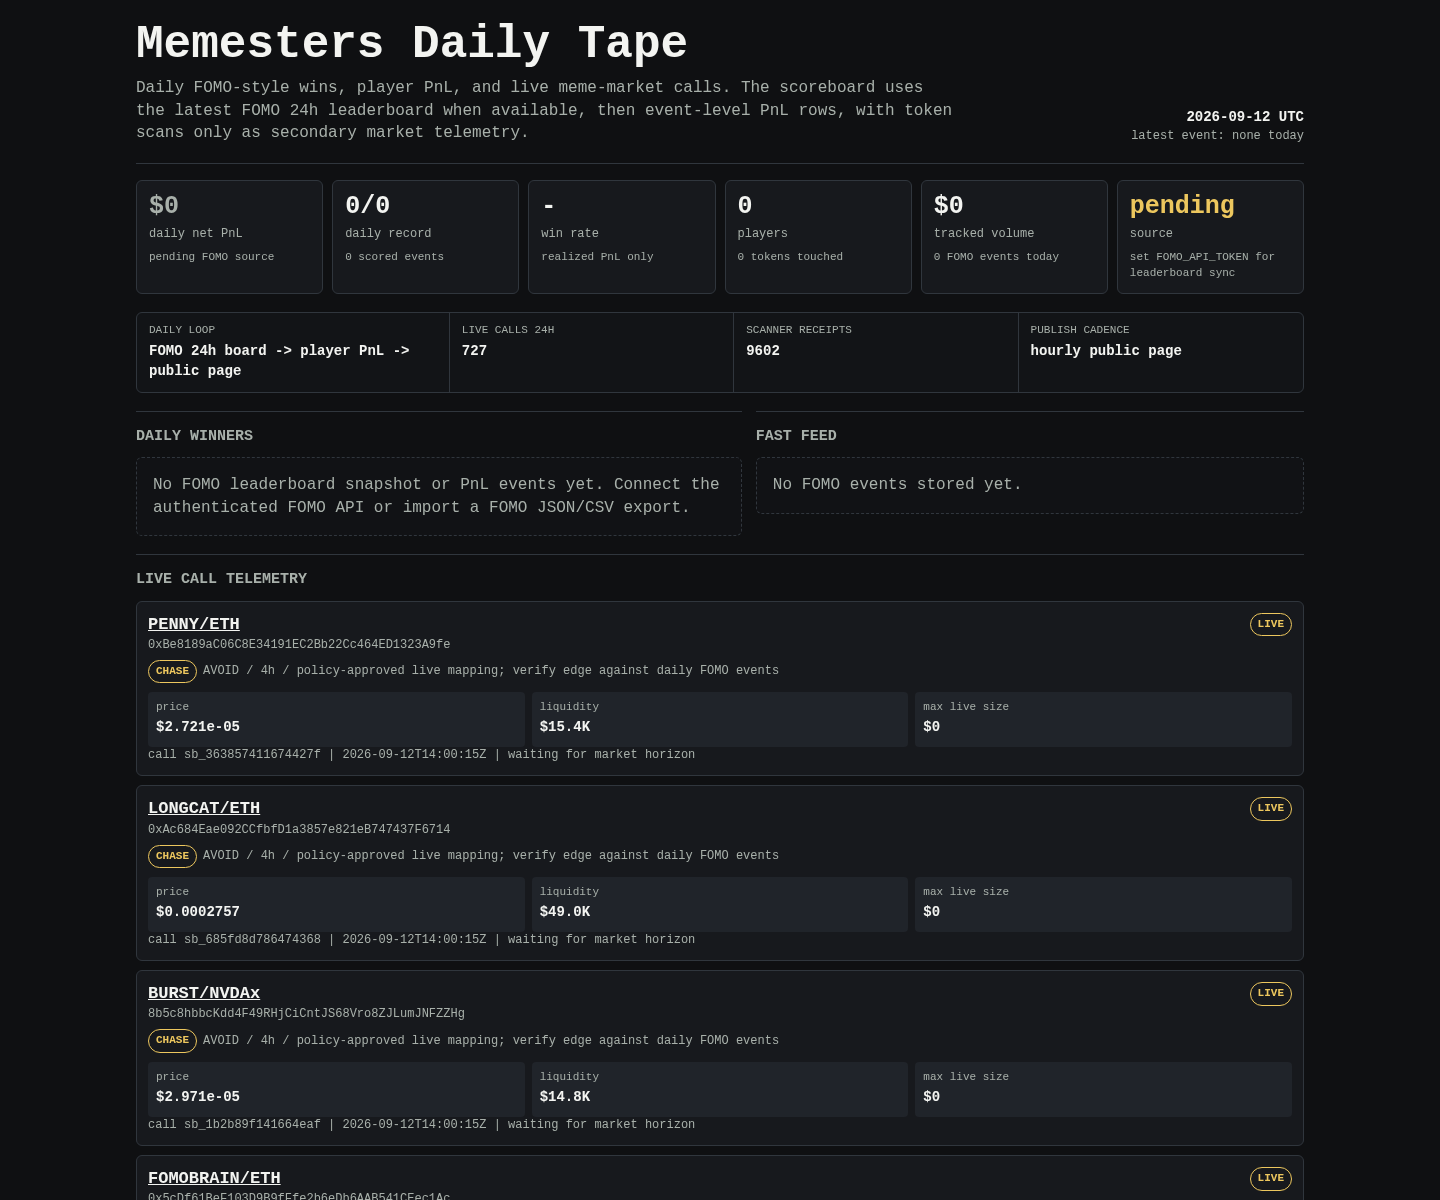
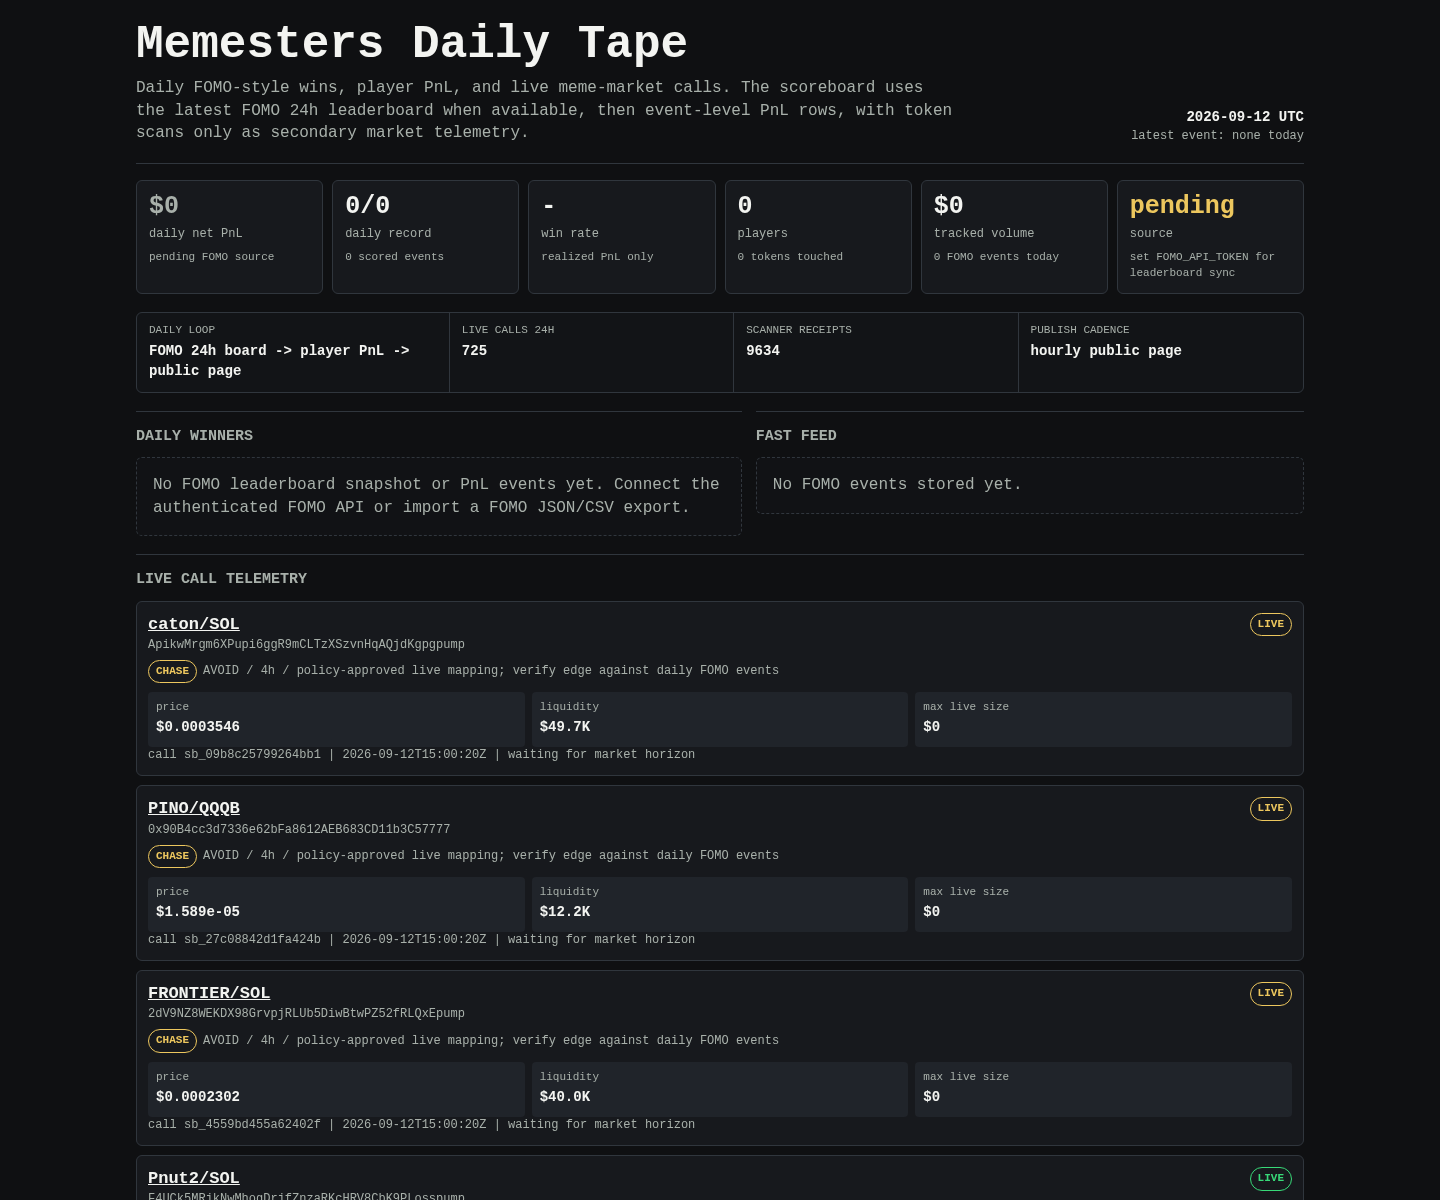
Update Memesters scoreboard

diff --git a/memesters/index.html b/memesters/index.html
@@ -149,8 +149,8 @@
 
     <div class="rail" aria-label="live operating loop">
       <div><span>daily loop</span><b>FOMO 24h board -> player PnL -> public page</b></div>
-      <div><span>live calls 24h</span><b>727</b></div>
-      <div><span>scanner receipts</span><b>9602</b></div>
+      <div><span>live calls 24h</span><b>725</b></div>
+      <div><span>scanner receipts</span><b>9634</b></div>
       <div><span>publish cadence</span><b>hourly public page</b></div>
     </div>
 
@@ -171,8 +171,8 @@
     <article class="receipt">
       <div class="receipt-head">
         <div>
-          <div class="pair"><a href="https://dexscreener.com/robinhood/0x1c79cd4555b3db537c1b85a9ccfb160bc39e95b7d14d550a0521f8031ba171cf">PENNY/ETH</a></div>
-          <div class="addr">0xBe8189aC06C8E34191EC2Bb22Cc464ED1323A9fe</div>
+          <div class="pair"><a href="https://dexscreener.com/solana/3m8sccafvcfvdugx762xxyyukfob6x94fjlfu925stya">caton/SOL</a></div>
+          <div class="addr">ApikwMrgm6XPupi6ggR9mCLTzXSzvnHqAQjdKgpgpump</div>
           <div class="addr policy-line">
             <span class="badge chase">CHASE</span>
             <span>AVOID / 4h / policy-approved live mapping; verify edge against daily FOMO events</span>
@@ -181,19 +181,19 @@
         <span class="badge chase">LIVE</span>
       </div>
       <div class="receipt-grid">
-        <div class="kv"><span>price</span><b>$2.721e-05</b></div>
-        <div class="kv"><span>liquidity</span><b>$15.4K</b></div>
+        <div class="kv"><span>price</span><b>$0.0003546</b></div>
+        <div class="kv"><span>liquidity</span><b>$49.7K</b></div>
         <div class="kv"><span>max live size</span><b>$0</b></div>
       </div>
-      <div class="outcomes">call sb_363857411674427f | 2026-09-12T14:00:15Z | waiting for market horizon</div>
+      <div class="outcomes">call sb_09b8c25799264bb1 | 2026-09-12T15:00:20Z | waiting for market horizon</div>
     </article>
     
 
     <article class="receipt">
       <div class="receipt-head">
         <div>
-          <div class="pair"><a href="https://dexscreener.com/robinhood/0x0287e822f8b63a3b209184ea553d814dd53e0a4b3910bd1f42c1aaf9e8edaab1">LONGCAT/ETH</a></div>
-          <div class="addr">0xAc684Eae092CCfbfD1a3857e821eB747437F6714</div>
+          <div class="pair"><a href="https://dexscreener.com/bsc/0x0360190d2ee442a5fb0d69cfe5ef6a863cbed326">PINO/QQQB</a></div>
+          <div class="addr">0x90B4cc3d7336e62bFa8612AEB683CD11b3C57777</div>
           <div class="addr policy-line">
             <span class="badge chase">CHASE</span>
             <span>AVOID / 4h / policy-approved live mapping; verify edge against daily FOMO events</span>
@@ -202,19 +202,19 @@
         <span class="badge chase">LIVE</span>
       </div>
       <div class="receipt-grid">
-        <div class="kv"><span>price</span><b>$0.0002757</b></div>
-        <div class="kv"><span>liquidity</span><b>$49.0K</b></div>
+        <div class="kv"><span>price</span><b>$1.589e-05</b></div>
+        <div class="kv"><span>liquidity</span><b>$12.2K</b></div>
         <div class="kv"><span>max live size</span><b>$0</b></div>
       </div>
-      <div class="outcomes">call sb_685fd8d786474368 | 2026-09-12T14:00:15Z | waiting for market horizon</div>
+      <div class="outcomes">call sb_27c08842d1fa424b | 2026-09-12T15:00:20Z | waiting for market horizon</div>
     </article>
     
 
     <article class="receipt">
       <div class="receipt-head">
         <div>
-          <div class="pair"><a href="https://dexscreener.com/solana/6zmrsv48ubx7esyzaocvm1zncsd3lgf1ujt4jmpfkdrt">BURST/NVDAx</a></div>
-          <div class="addr">8b5c8hbbcKdd4F49RHjCiCntJS68Vro8ZJLumJNFZZHg</div>
+          <div class="pair"><a href="https://dexscreener.com/solana/2ueezzhnnng9vyqnk8enxovchw6nwbd2ztl7ynjeb6kc">FRONTIER/SOL</a></div>
+          <div class="addr">2dV9NZ8WEKDX98GrvpjRLUb5DiwBtwPZ52fRLQxEpump</div>
           <div class="addr policy-line">
             <span class="badge chase">CHASE</span>
             <span>AVOID / 4h / policy-approved live mapping; verify edge against daily FOMO events</span>
@@ -223,82 +223,19 @@
         <span class="badge chase">LIVE</span>
       </div>
       <div class="receipt-grid">
-        <div class="kv"><span>price</span><b>$2.971e-05</b></div>
-        <div class="kv"><span>liquidity</span><b>$14.8K</b></div>
+        <div class="kv"><span>price</span><b>$0.0002302</b></div>
+        <div class="kv"><span>liquidity</span><b>$40.0K</b></div>
         <div class="kv"><span>max live size</span><b>$0</b></div>
       </div>
-      <div class="outcomes">call sb_1b2b89f141664eaf | 2026-09-12T14:00:15Z | waiting for market horizon</div>
+      <div class="outcomes">call sb_4559bd455a62402f | 2026-09-12T15:00:20Z | waiting for market horizon</div>
     </article>
     
 
     <article class="receipt">
       <div class="receipt-head">
         <div>
-          <div class="pair"><a href="https://dexscreener.com/robinhood/0xce9717f198556ac865a3996cd75879aadfc046838e854dd8641b61f6a8a2003c">FOMOBRAIN/ETH</a></div>
-          <div class="addr">0x5cDf61BeF103D9B9fFfe2b6eDb6AAB541CEec1Ac</div>
-          <div class="addr policy-line">
-            <span class="badge chase">CHASE</span>
-            <span>AVOID / 4h / policy-approved live mapping; verify edge against daily FOMO events</span>
-          </div>
-        </div>
-        <span class="badge chase">LIVE</span>
-      </div>
-      <div class="receipt-grid">
-        <div class="kv"><span>price</span><b>$0.0001237</b></div>
-        <div class="kv"><span>liquidity</span><b>$32.8K</b></div>
-        <div class="kv"><span>max live size</span><b>$0</b></div>
-      </div>
-      <div class="outcomes">call sb_1af87678a92f4990 | 2026-09-12T14:00:15Z | waiting for market horizon</div>
-    </article>
-    
-
-    <article class="receipt">
-      <div class="receipt-head">
-        <div>
-          <div class="pair"><a href="https://dexscreener.com/solana/7qstma9bzldbp7x8ffzcc5qkqfpzjkpncrkuswxpwasr">anonwjak/SOL</a></div>
-          <div class="addr">99kxekvdDAUKHBTw7hXVmFtsLWvCnNJFtJCEyAXMpump</div>
-          <div class="addr policy-line">
-            <span class="badge rug-risk">RUG RISK</span>
-            <span>AVOID / 4h / policy-approved live mapping; verify edge against daily FOMO events</span>
-          </div>
-        </div>
-        <span class="badge rug-risk">LIVE</span>
-      </div>
-      <div class="receipt-grid">
-        <div class="kv"><span>price</span><b>$6.946e-05</b></div>
-        <div class="kv"><span>liquidity</span><b>$21.5K</b></div>
-        <div class="kv"><span>max live size</span><b>$0</b></div>
-      </div>
-      <div class="outcomes">call sb_d163d786bfc9419b | 2026-09-12T14:00:15Z | waiting for market horizon</div>
-    </article>
-    
-
-    <article class="receipt">
-      <div class="receipt-head">
-        <div>
-          <div class="pair"><a href="https://dexscreener.com/robinhood/0x5c017bd0ac69089e5f8415aa388e01786824bf83f8e3a7071a3dfa149a5bd848">BANGERCAT/NVDA</a></div>
-          <div class="addr">0xa22723Dd32Af7EF51E2D2Dd76CC509e11a9c8747</div>
-          <div class="addr policy-line">
-            <span class="badge rug-risk">RUG RISK</span>
-            <span>AVOID / 4h / policy-approved live mapping; verify edge against daily FOMO events</span>
-          </div>
-        </div>
-        <span class="badge rug-risk">LIVE</span>
-      </div>
-      <div class="receipt-grid">
-        <div class="kv"><span>price</span><b>$1.618e-05</b></div>
-        <div class="kv"><span>liquidity</span><b>$11.0K</b></div>
-        <div class="kv"><span>max live size</span><b>$0</b></div>
-      </div>
-      <div class="outcomes">call sb_e704dce68a8142ac | 2026-09-12T14:00:15Z | waiting for market horizon</div>
-    </article>
-    
-
-    <article class="receipt">
-      <div class="receipt-head">
-        <div>
-          <div class="pair"><a href="https://dexscreener.com/solana/6xakr8dcv3g3rxcpjwcpbvdgwodofqfp8snrzfkplkip">BRANDON/SOL</a></div>
-          <div class="addr">C8U9aPpuXmHqjvdQX57uJMxKzjETkbrmYDm7eQ6fpump</div>
+          <div class="pair"><a href="https://dexscreener.com/solana/dfsuevywchjmebg4gi9vhrg2m2tbewq85f6rmzcydrpa">Pnut2/SOL</a></div>
+          <div class="addr">F4UCk5MRjkNwMhogDrjfZnzaRKcHRV8CbK9PLosspump</div>
           <div class="addr policy-line">
             <span class="badge early">EARLY</span>
             <span>BUY / 1h / policy-approved live mapping; verify edge against daily FOMO events</span>
@@ -307,40 +244,40 @@
         <span class="badge early">LIVE</span>
       </div>
       <div class="receipt-grid">
-        <div class="kv"><span>price</span><b>$7.006e-05</b></div>
-        <div class="kv"><span>liquidity</span><b>$20.9K</b></div>
-        <div class="kv"><span>max live size</span><b>$251</b></div>
+        <div class="kv"><span>price</span><b>$2.145e-05</b></div>
+        <div class="kv"><span>liquidity</span><b>$10.7K</b></div>
+        <div class="kv"><span>max live size</span><b>$128</b></div>
       </div>
-      <div class="outcomes">call sb_e5caa2b809a448e2 | 2026-09-12T14:00:15Z | waiting for market horizon</div>
+      <div class="outcomes">call sb_a7a19394e161461f | 2026-09-12T15:00:20Z | waiting for market horizon</div>
     </article>
     
 
     <article class="receipt">
       <div class="receipt-head">
         <div>
-          <div class="pair"><a href="https://dexscreener.com/base/0xe36ad7fdd277c5bd37db459130f508d6e995cd07324b461989a1d6ce77405884">LOTTO/USDC</a></div>
-          <div class="addr">0x908b1D6b6C12bfDFCaaeB658b365CE39c21e679c</div>
+          <div class="pair"><a href="https://dexscreener.com/robinhood/0xb5151d2edff813d26f9db34abd85d33d04d93e2d7909170879b71d42655b0ad7">BUZZ/ETH</a></div>
+          <div class="addr">0x154B59D5edA4Ad58e947B85A4726dD016bBd2aE4</div>
           <div class="addr policy-line">
-            <span class="badge chase">CHASE</span>
-            <span>AVOID / 4h / policy-approved live mapping; verify edge against daily FOMO events</span>
+            <span class="badge early">EARLY</span>
+            <span>BUY / 1h / policy-approved live mapping; verify edge against daily FOMO events</span>
           </div>
         </div>
-        <span class="badge chase">LIVE</span>
+        <span class="badge early">LIVE</span>
       </div>
       <div class="receipt-grid">
-        <div class="kv"><span>price</span><b>$0.000297</b></div>
-        <div class="kv"><span>liquidity</span><b>$242.0K</b></div>
-        <div class="kv"><span>max live size</span><b>$0</b></div>
+        <div class="kv"><span>price</span><b>$7.126e-05</b></div>
+        <div class="kv"><span>liquidity</span><b>$24.9K</b></div>
+        <div class="kv"><span>max live size</span><b>$186</b></div>
       </div>
-      <div class="outcomes">call sb_e10f448eb2504008 | 2026-09-12T13:45:15Z | waiting for market horizon</div>
+      <div class="outcomes">call sb_6c500cbdec4f46b8 | 2026-09-12T15:00:20Z | waiting for market horizon</div>
     </article>
     
 
     <article class="receipt">
       <div class="receipt-head">
         <div>
-          <div class="pair"><a href="https://dexscreener.com/bsc/0xee9ca404c7655c1946b28734db92c0bf14af1af2">Flaybrain/WBNB</a></div>
-          <div class="addr">0xe5304E6015ff0f9d732b34283a6CA20CA9b17777</div>
+          <div class="pair"><a href="https://dexscreener.com/solana/aw2crmxum1wzemnfrs8x1dr3jnldd3kladmvcj3mt2mg">MEME50/SOL</a></div>
+          <div class="addr">bpP1f1wDvenKTawE42wYArcLEEN5EZQn7v9Hy9Epump</div>
           <div class="addr policy-line">
             <span class="badge rug-risk">RUG RISK</span>
             <span>AVOID / 4h / policy-approved live mapping; verify edge against daily FOMO events</span>
@@ -349,19 +286,82 @@
         <span class="badge rug-risk">LIVE</span>
       </div>
       <div class="receipt-grid">
-        <div class="kv"><span>price</span><b>$8.79e-06</b></div>
-        <div class="kv"><span>liquidity</span><b>$9.3K</b></div>
+        <div class="kv"><span>price</span><b>$4.576e-06</b></div>
+        <div class="kv"><span>liquidity</span><b>$4.0K</b></div>
         <div class="kv"><span>max live size</span><b>$0</b></div>
       </div>
-      <div class="outcomes">call sb_2e4ff222ae3747f3 | 2026-09-12T13:45:15Z | waiting for market horizon</div>
+      <div class="outcomes">call sb_920c7a6efe8e4ac4 | 2026-09-12T15:00:20Z | waiting for market horizon</div>
     </article>
     
 
     <article class="receipt">
       <div class="receipt-head">
         <div>
-          <div class="pair"><a href="https://dexscreener.com/solana/j3asmssarchznymn7s7wrpbq9ex4bgn7obusn4pnhk9h">LOTTO/EMBER</a></div>
-          <div class="addr">8WXiWXTMNPxmzpZdEmGBYNc3j7B5n3VEqgD6LjXAx2Xp</div>
+          <div class="pair"><a href="https://dexscreener.com/solana/cygvmodz4upann1f9cpjuxjrpcwfwluz4u9okh4j2xuc">pipecat/SOL</a></div>
+          <div class="addr">7NuvPvscmTgaBC5ZHeqMKsHGEejdsZJrrNQznPsnpump</div>
+          <div class="addr policy-line">
+            <span class="badge rug-risk">RUG RISK</span>
+            <span>AVOID / 4h / policy-approved live mapping; verify edge against daily FOMO events</span>
+          </div>
+        </div>
+        <span class="badge rug-risk">LIVE</span>
+      </div>
+      <div class="receipt-grid">
+        <div class="kv"><span>price</span><b>$0.0001121</b></div>
+        <div class="kv"><span>liquidity</span><b>$29.1K</b></div>
+        <div class="kv"><span>max live size</span><b>$0</b></div>
+      </div>
+      <div class="outcomes">call sb_88045bc7fa644b9a | 2026-09-12T15:00:20Z | waiting for market horizon</div>
+    </article>
+    
+
+    <article class="receipt">
+      <div class="receipt-head">
+        <div>
+          <div class="pair"><a href="https://dexscreener.com/robinhood/0x036ad1bf3cede52360ab93095fdcf7849cb9df5073885fe0e5cf23c8be2dfd8c">LIL/AAPL</a></div>
+          <div class="addr">0x54706217E3052E77e11d7e5A3c72513fF8E22C37</div>
+          <div class="addr policy-line">
+            <span class="badge early">EARLY</span>
+            <span>BUY / 1h / policy-approved live mapping; verify edge against daily FOMO events</span>
+          </div>
+        </div>
+        <span class="badge early">LIVE</span>
+      </div>
+      <div class="receipt-grid">
+        <div class="kv"><span>price</span><b>$3.113e-05</b></div>
+        <div class="kv"><span>liquidity</span><b>$14.3K</b></div>
+        <div class="kv"><span>max live size</span><b>$53</b></div>
+      </div>
+      <div class="outcomes">call sb_5f4583bd2bff4290 | 2026-09-12T15:00:20Z | waiting for market horizon</div>
+    </article>
+    
+
+    <article class="receipt">
+      <div class="receipt-head">
+        <div>
+          <div class="pair"><a href="https://dexscreener.com/solana/3wkn2cs4rcqthrxnrgqmkgyt28sqjwoqsyzp8ermpr1d">DATADOG/SOL</a></div>
+          <div class="addr">2G8jCXX6HCTtXmZ8ngS2Z3qs6z2BJzLhdJt7YNsgpump</div>
+          <div class="addr policy-line">
+            <span class="badge early">EARLY</span>
+            <span>BUY / 1h / policy-approved live mapping; verify edge against daily FOMO events</span>
+          </div>
+        </div>
+        <span class="badge early">LIVE</span>
+      </div>
+      <div class="receipt-grid">
+        <div class="kv"><span>price</span><b>$9.517e-05</b></div>
+        <div class="kv"><span>liquidity</span><b>$25.9K</b></div>
+        <div class="kv"><span>max live size</span><b>$311</b></div>
+      </div>
+      <div class="outcomes">call sb_23eb551515a24bf3 | 2026-09-12T14:45:16Z | waiting for market horizon</div>
+    </article>
+    
+
+    <article class="receipt">
+      <div class="receipt-head">
+        <div>
+          <div class="pair"><a href="https://dexscreener.com/bsc/0x7fd71204a755f128d788ee1cd89b9cee8b8812e8">Sue/USDT</a></div>
+          <div class="addr">0xB391e9bEF634ADf52A0972fBD0943935e6097777</div>
           <div class="addr policy-line">
             <span class="badge chase">CHASE</span>
             <span>AVOID / 4h / policy-approved live mapping; verify edge against daily FOMO events</span>
@@ -370,11 +370,11 @@
         <span class="badge chase">LIVE</span>
       </div>
       <div class="receipt-grid">
-        <div class="kv"><span>price</span><b>$0.0001934</b></div>
-        <div class="kv"><span>liquidity</span><b>$29.9K</b></div>
+        <div class="kv"><span>price</span><b>$9.49e-05</b></div>
+        <div class="kv"><span>liquidity</span><b>$63.9K</b></div>
         <div class="kv"><span>max live size</span><b>$0</b></div>
       </div>
-      <div class="outcomes">call sb_674ec45eab3b44f1 | 2026-09-12T13:45:15Z | waiting for market horizon</div>
+      <div class="outcomes">call sb_30fe4ae6078c47f2 | 2026-09-12T14:45:16Z | waiting for market horizon</div>
     </article>
     
     </section>
